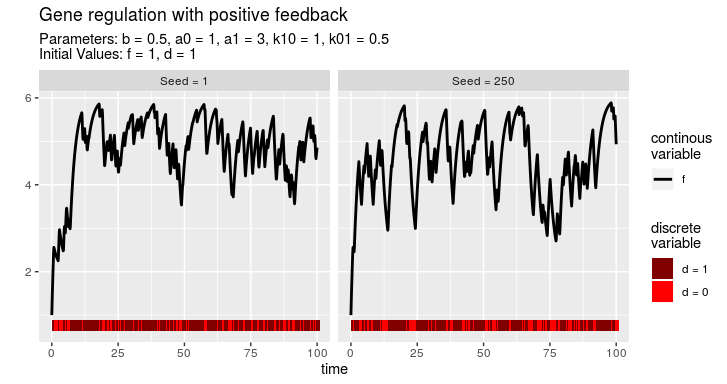
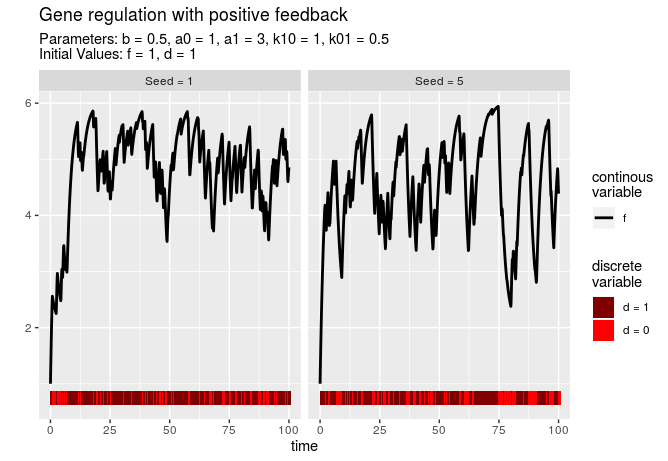
texts about plots and generator in README

diff --git a/README.md b/README.md
@@ -1,27 +1,35 @@
 Package pdmpsim
 ================
 
+-   [Introduction](#introduction)
+-   [A simple example](#a-simple-example)
+-   [Simulation](#simulation)
+    -   [Multiple Simulations](#multiple-simulations)
+-   [Plot methods](#plot-methods)
+    -   [Plot single simulations](#plot-single-simulations)
+    -   [Boxplot and violin plot](#boxplot-and-violin-plot)
+    -   [Heatmap over all simulations](#heatmap-over-all-simulations)
+    -   [Density plot and histogram](#density-plot-and-histogram)
+    -   [Calculate and plot statistics](#calculate-and-plot-statistics)
+-   [The generator](#the-generator)
+-   [A more sophisticated example](#a-more-sophisticated-example)
+-   [License](#license)
+
 <!-- README.md is generated from README.Rmd. Please edit that file -->
+Introduction
+============
 
-# Introduction
-
-The goal of pdmpsim is to simulate [piecewise deterministic markov
-processes](https://www.researchgate.net/publication/316281383_Piecewise-deterministic_Markov_processes_A_general_class_of_non-diffusion_stochastic_models_and_Discussion)
-(PDMPs) within R and to provide methods for analysing the simulation
-results.
+The goal of `pdmpsim` is to simulate [piecewise deterministic markov processes](https://www.researchgate.net/publication/316281383_Piecewise-deterministic_Markov_processes_A_general_class_of_non-diffusion_stochastic_models_and_Discussion) (PDMPs) within R and to provide methods for analysing the simulation results.
 
 It is possible to
 
-  - simulate PDMPs
-  - store multiple simulations in a convenient way
-  - calculate some statistics on them
-  - plot the results (there are different plot methods available)
-  - compute the generator numerically
+-   simulate PDMPs
+-   store multiple simulations in a convenient way
+-   calculate some statistics on them
+-   plot the results (there are different plot methods available)
+-   compute the generator numerically
 
-The PDMPs can have multiple discrete and continous variables. They are
-not allowed to have boundaries or a varying number of continous
-variables (the number should be independent of the state of the discrete
-variable).
+The PDMPs can have multiple discrete and continous variables. They are not allowed to have boundaries or a varying number of continous variables (the number should be independent of the state of the discrete variable).
 
 You can install `pdmpsim` from github with:
 
@@ -30,145 +38,177 @@ You can install `pdmpsim` from github with:
 devtools::install_github("CharlotteJana/pdmpsim")
 ```
 
-# A simple example
+A simple example
+================
 
-This is a simple example modelling gene expression with positive
-feedback:
+This is a simple example modelling gene expression with positive feedback:
 
 ``` r
-examplePDMP <- pdmpModel(
-  descr = "Gene regulation with positive feedback",
-  parms = list(b = 0.2, a = 7, k10 = 0.04, k01 = 0.02),
-  init = c(f = 1, d = 1),
-  discStates = list(d = c(0, 1)),
-  dynfunc = function(t, x, parms) {
-    df <- with(as.list(c(x, parms)), a*d - b*f)
-    return(c(df, 0))
-  },
-  ratefunc = function(t, x, parms) {
-    return(with(as.list(c(x, parms)), switch(d + 1, k01*f, k10)))
-  },
-  jumpfunc = function(t, x, parms, jtype) {
-    c(x[1], 1 - x[2])
-  },
-  times = c(from = 0, to = 100, by = 0.1),
-  solver = "lsodar")
+examplePDMP <- new("pdmpModel",
+                  descr = "Gene regulation with positive feedback",
+                  parms = list(b = 0.5, a0 = 1, a1 = 3, k10 = 1, k01 = 0.5), 
+                  init = c(f = 1, d = 1),
+                  discStates = list(d = 0:1),
+                  dynfunc = function(t, x, parms) {
+                    df <- with(as.list(c(x, parms)), {
+                      switch(d+1, a0 - b*f, a1 - b*f)
+                    })
+                    return(c(df, 0))
+                  }, 
+                  ratefunc = function(t, x, parms) {
+                    return(with(as.list(c(x, parms)), switch(d + 1, k01*f, k10)))
+                  }, 
+                  jumpfunc = function(t, x, parms, jtype) {
+                    c(x[1], 1 - x[2])
+                  }, 
+                  times = c(from = 0, to = 100, by = 0.1), 
+                  solver = "lsodar")
 ```
 
-Perform one simulation and plot the result:
+The variable names and initial values are specified in slot **init**. In this case, the model has two variables, `f` and `d`. Slot **discStates** specifies that `d` is the discrete variable and can take the possible values 0 and 1. Constant parameters of the model are listed in slot **parms**, a short description is given in slot **descr** and is usually used as title for the plot methods. Slot **dynfunc** returns the ODEs of the variables, their value depends on the state of the discrete variable `d`. Slot **ratefunc** determines the rate and therefore probability that a jump occurs (there is only one type of jumps). Slot **jumpfunc** returns the new value after a jump.
+
+Simulation
+==========
+
+A single simulation of a PDMP can be calculated with function `sim`. The function takes the model as argument and returns the same model, with the simulation results stored in a special slot named `out`.
+
+``` r
+out(examplePDMP) # no simulation
+#> NULL
+```
 
 ``` r
 examplePDMP <- sim(examplePDMP)
-plot(examplePDMP)
+head(out(examplePDMP)) # simulation stored in slot out
+#>      time        f d
+#> [1,]  0.0 1.000000 1
+#> [2,]  0.1 1.243854 1
+#> [3,]  0.2 1.475811 1
+#> [4,]  0.3 1.696458 1
+#> [5,]  0.4 1.906344 1
+#> [6,]  0.5 2.105994 1
 ```
-
-![](man/figures/README-unnamed-chunk-3-1.png)<!-- -->
-
-# Multiple simulations
-
-Package `pdmpsim` provides two similar methods to perform and store a
-large number of different simulations of one PDMP.
-
-Function `multSim` returns an S3-object of class `multSim` which
-contains a list of simulation results, a list of time values declaring
-the time needed for the corresponding simulation, the model that was
-used for simulation and a vector of numeric numbers. This vector is
-named `seeds`, its elements are used as argument to function `sim` and
-control the stochastic part of the model, making the simulation results
-reproducable. The vector `seeds` and the PDMP model are the only
-arguments needed for function `multSim`.
 
 ``` r
-simulations <- multSim(examplePDMP, seeds = 1:10)
-#> Calculating seeds  1  2  3  4  5  6  7  8  9  10
+plot(examplePDMP) # plot the simulation results
 ```
 
-The second function available to store multiple simulations is called
-`multSimCsv`. It is only useful if the memory used by all simulations
-exceeds the working memory. In this case, it is not possible to store
-all simulations in one object. They are stored in multiple csv files
-instead.
+![](man/figures/README-unnamed-chunk-5-1.png)
 
-# Plot methods
+Multiple Simulations
+--------------------
 
-There are several functions available to plot the simulations stored as
-`multSim`.
+Package `pdmpsim` provides two similar methods to perform and store a large number of different simulations of one PDMP.
 
-## Plot single simulations
+Function `multSim` returns an S3-object of class `multSim` which contains a list of simulation results, a list of time values storing the time needed for the corresponding simulation, the model that was used for the simulations and a vector of numeric numbers. This vector is named `seeds`, its elements are used as argument to function `sim` and control the stochastic part of the model, making the simulation results reproducable. The vector `seeds` and the PDMP model are the only arguments needed for function `multSim`.
 
 ``` r
-plotSeeds(simulations, seeds = c(1, 30))
-#> Warning in getMultSimData.multSim(x, seeds = seeds): There are no
-#> simulations for seed 30
+simulations <- multSim(examplePDMP, seeds = 1:300) # 300 simulations, they may take some time
 ```
 
-![](man/figures/README-unnamed-chunk-5-1.png)<!-- -->
+The second function available to store multiple simulations is called `multSimCsv`. It is only useful if the memory used by all simulations exceeds the working memory. In this case, it is not possible to store all simulations in one object. They are stored in multiple csv files instead.
 
-## Heatmap over all simulations
+Plot methods
+============
+
+There are several functions available to plot the simulations of a PDMP. Most of them are generated with package `ggplot2` and can be modified afterwards.
+
+Plot single simulations
+-----------------------
+
+The trajectory of a single simulation can be plotted with function `plot`, if the simulation is stored in slot `out` of the model. The generated plot is a base plot, but a plot generated by `ggplot2` is also possible, depending on the boolean argument `ggplot`.
+
+For objects of class `multSim`, which contain multiple simulations, another function is necessary. It is called `plotSeeds` and can plot up to four different trajectories at a time.
 
 ``` r
-plot(simulations)
-#> `geom_smooth()` using method = 'gam' and formula 'y ~ s(x, bs = "cs")'
+plotSeeds(simulations, seeds = c(1, 5))
 ```
 
-![](man/figures/README-unnamed-chunk-6-1.png)<!-- -->
+![](https://raw.githubusercontent.com/CharlotteJana/pdmpsim/charlotte/man/figures/README-plotSeeds.png)
 
-## Boxplot and violin plot
+Boxplot and violin plot
+-----------------------
+
+Function `plotTimes` allows to plot a boxplot or violin plot for different time values over all simulations. Argument `plottype` determines the type of the plot.
 
 ``` r
-plotTimes(simulations, vars = "f", times = c(60, 90, 100), nolo = 3)
+plotTimes(simulations, plottype = "violin", times = c(3, 50, 100))
 ```
 
-![](man/figures/README-unnamed-chunk-7-1.png)<!-- -->
+![](https://raw.githubusercontent.com/CharlotteJana/pdmpsim/charlotte/man/figures/README-violins.png)
 
-## Density plot and histogram
+A special argument to function `plotTimes` is called `nolo` which stands for *number of labelled outliers*. This allows to label the most extreme outliers with the seed number which was used to create the simulation. If for example `nolo = 3`, a maximum of three outliers will be labelled for every time value.
 
 ``` r
-density(simulations, t = c(60, 90, 100))
+plotTimes(simulations, vars = "f", times = c(20, 50, 80, 100), nolo = 3)
 ```
 
-![](man/figures/README-unnamed-chunk-8-1.png)<!-- -->
+![](https://raw.githubusercontent.com/CharlotteJana/pdmpsim/charlotte/man/figures/README-boxplot.png)
 
-## Calculate and plot statistics
+Heatmap over all simulations
+----------------------------
 
-Calculate minimum, mean and maximum and plot them:
+If `plot` is called on an object of class `multSim`, it creates a heatmap for every continous variable and a (possibly smoothed) line plot for the discrete values of every discrete variable. This is the only plot method which gives an overview over all simulated data at every time value.
 
 ``` r
-summarise_at(simulations, .vars = "f", .funs = c("min", "mean", "max"))
-#> # A tibble: 1,001 x 4
-#>     time   min  mean   max
-#>    <dbl> <dbl> <dbl> <dbl>
-#>  1   0    1     1     1   
-#>  2   0.1  1.67  1.67  1.67
-#>  3   0.2  2.33  2.33  2.33
-#>  4   0.3  2.98  2.98  2.98
-#>  5   0.4  3.43  3.60  3.61
-#>  6   0.5  3.36  4.15  4.24
-#>  7   0.6  3.30  4.69  4.84
-#>  8   0.7  3.23  5.22  5.44
-#>  9   0.8  3.17  5.74  6.03
-#> 10   0.9  3.11  6.25  6.60
-#> # … with 991 more rows
-plotStats(simulations, vars = "f", funs = c("min", "mean", "max"))
+plot(simulations, discPlot = "line")
 ```
 
-![](man/figures/README-unnamed-chunk-9-1.png)<!-- -->
+![](https://raw.githubusercontent.com/CharlotteJana/pdmpsim/charlotte/man/figures/README-heatmap.png)
 
-# A more sophisticated example
+Density plot and histogram
+--------------------------
 
-The PDMP presented in this paragraph models a gene regulation mechanism
-with toggle switch between two genes. We consider two genes \(A\) and
-\(B\), and the concentration of their gene products, \(f_A\) and
-\(f_B\). A product of gene \(A\) can block the transcription of gene
-\(B\) and therefore affects the concentration \(f_B\). Conversely, a
-product of gene \(B\) can block gene \(A\).
+Function `hist` plots a histogram over all simulations for a given time value. Function `density` creates a density plot, allowing multiple time values as input.
 
-\[\]
-(<https://raw.githubusercontent.com/CharlotteJana/pdmppoly/charlotte/man/figures/README-toggleSwitch.png>)
+``` r
+density(simulations, t = c(3, 50, 80, 100))
+```
 
-The PDMPs contains six different constant parameters:
-\(k_{01}, k_{10}, a_A, a_B, b_A\) and \(b_B\). The formulation as
-`pdmpModel` object ist as follows:
+![](https://raw.githubusercontent.com/CharlotteJana/pdmpsim/charlotte/man/figures/README-density.png)
+
+Calculate and plot statistics
+-----------------------------
+
+Use function `summarise_at` to apply functions as `mean`, `sd`, etc. on the simulated values. Function `plotStats` calls `summarise_at` internally and plots the results.
+
+``` r
+plotStats(simulations, vars = "f", funs = c("min", "mean", "median", "max"))
+```
+
+![](https://raw.githubusercontent.com/CharlotteJana/pdmpsim/charlotte/man/figures/README-statistics.png)
+
+The generator
+=============
+
+Package `pmdpsim` provides the function `generator` to numerically calculate the generator of a PDMP without boundaries.
+
+``` r
+Q <- generator(examplePDMP)
+```
+
+Because the generator operates on functions, it hast to be applied to a function and afterwards to specific values.
+
+``` r
+f <- function(d, f) d*f^2
+Q(f)(t = 10, x = c("d" = 1, "f" = 4))
+#> [1] -11
+```
+
+See `?generator` for correct usage.
+
+A more sophisticated example
+============================
+
+The PDMP presented in this paragraph models a gene regulation mechanism with toggle switch between two genes. It is included in package `pdmpsim` as an example, a detailed description of the different slots can be loaded with `?toggleSwitch`.
+
+We consider two genes *A* and *B*, and the concentration of their gene products, *f*<sub>*A*</sub> and *f*<sub>*B*</sub>. A product of gene *A* can block the transcription of gene *B* and therefore affects the concentration *f*<sub>*B*</sub>. Conversely, a product of gene *B* can block gene *A*. See the left part of the picture below.
+
+![](https://raw.githubusercontent.com/CharlotteJana/pdmpsim/charlotte/man/figures/README-toggleSwitch.png)
+
+The PDMP contains six different constant parameters: *k*<sub>01</sub>, *k*<sub>10</sub>, *a*<sub>*A*</sub>, *a*<sub>*B*</sub>, *b*<sub>*A*</sub> and *b*<sub>*B*</sub>. It has two discrete variables *d*<sub>*A*</sub> and *d*<sub>*B*</sub>, where *d*<sub>*A*</sub> represents the status of gene *A* (inactive/active) and *d*<sub>*B*</sub> represents the status of gene *B*. There are two different type of jumps, the first describes a change in gene *B*, the second a change in gene *A*. The ODEs for *f*<sub>*A*</sub> and *f*<sub>*B*</sub> depend on the values of the discrete variables, as can be seen in the right parte of the figure above.
+
+The formulation as `pdmpModel` object ist as follows:
 
 ``` r
 
@@ -193,20 +233,14 @@ toggleSwitch <- pdmpModel(
     })
 ```
 
-The model is included in package `pdmpsim` as an example, a detailed
-description of the different slots can be loaded with `?toggleSwitch`.
-
 ``` r
 plot(sim(toggleSwitch), ggplot = TRUE) + 
   ggplot2::scale_color_manual(values = c("orange", "palegreen3")) # change color
 ```
 
-![](man/figures/README-unnamed-chunk-11-1.png)<!-- -->
+![](man/figures/README-unnamed-chunk-16-1.png)
 
-# License
+License
+=======
 
-Some classes introduced in package `pdmpsim` are based on code from
-package [simecol](http://simecol.r-forge.r-project.org/). Both packages
-are free open source software licensed under the [GNU Public
-License](https://www.gnu.org/licenses/#GPL) (GPL 2.0 or above). The
-software is provided as is and comes WITHOUT WARRANTY.
+Some classes introduced in package `pdmpsim` are based on code from package [simecol](http://simecol.r-forge.r-project.org/). Both packages are free open source software licensed under the [GNU Public License](https://www.gnu.org/licenses/#GPL) (GPL 2.0 or above). The software is provided as is and comes WITHOUT WARRANTY.
